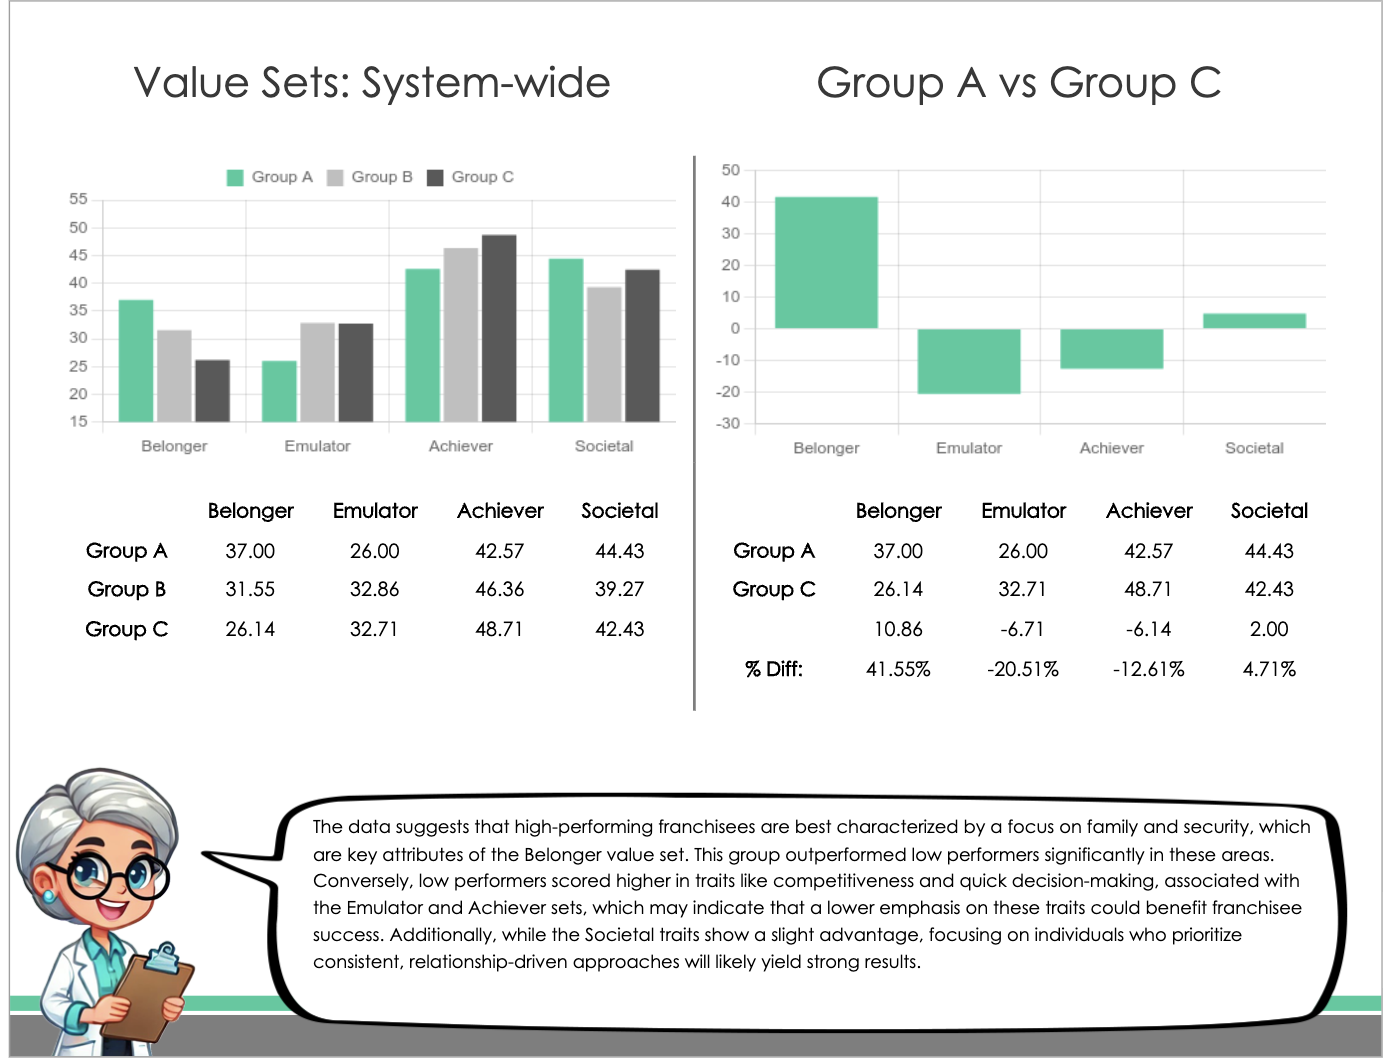
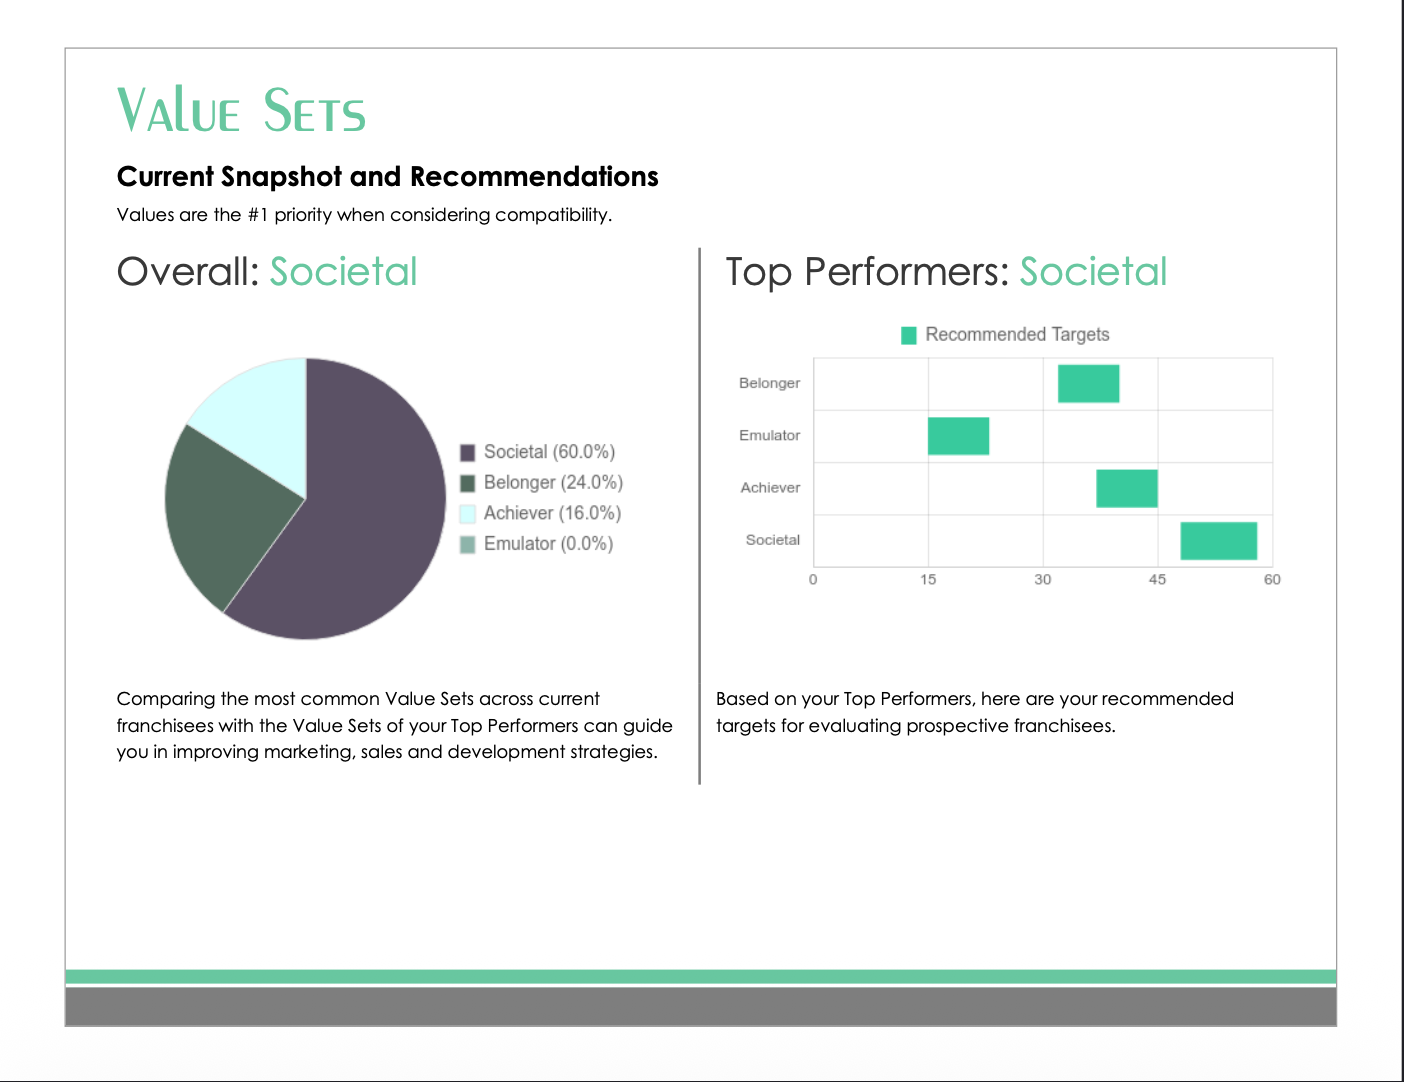
updates finished

diff --git a/site/src/data/site-content.ts b/site/src/data/site-content.ts
@@ -14,13 +14,12 @@ export const navLinks = [
       { href: "/news", label: "News" },
       { href: "/partnerships", label: "Partnerships" },
       { href: "/podcasts", label: "Podcasts" },
-      { href: "/science", label: "The Science" },
       { href: "/support", label: "Support" },
       { href: "/webinars", label: "Webinars" },
 
     ]
   },
-  { href: "/about", label: "About" }
+  { href: "/sciences", label: "The Sciences" }
 ];
 
 export const partnerships = [
@@ -146,8 +145,8 @@ export const footer = {
 
   newsletter: {
     anchorId: "newsletter",
-    heading: "Mailing List",
-    description: "Occasional updates from Zorakle. One email, no noise.",
+    heading: "Franchise Alignment Insights",
+    description: "Insights for selecting, supporting, and developing stronger franchisees.",
     hubspot: {
       portalId: "2403148",
       formId: "70034db0-b57a-46ee-9e57-589cb90c70a0",
@@ -160,7 +159,7 @@ export const footer = {
     { href: "/solutions/brokers", label: "For Brokers" },
     { href: "/pricing", label: "Pricing" },
     { href: "/news", label: "News" },
-    { href: "/science", label: "The Science" },
+    { href: "/sciences", label: "The Sciences" },
     { href: "/support", label: "Support" },
     { href: "/about", label: "About" },
     { href: "/schedule", label: "Book a Demo" },
